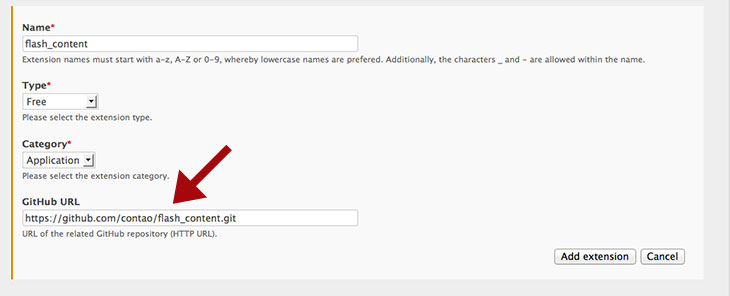
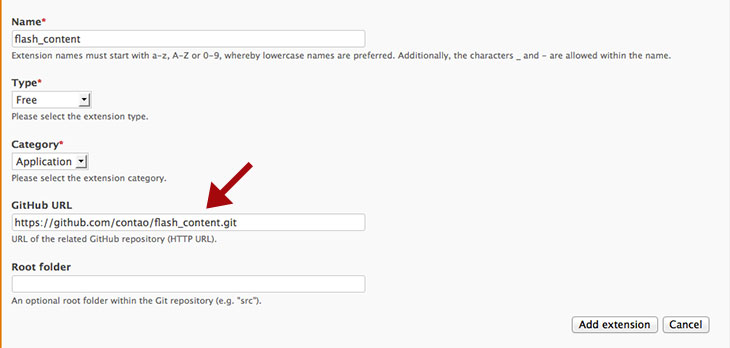
Github import update

Changed region(s): [[0.0, 0.0, 0.9342, 0.973], [0.7534, 0.8209, 0.9644, 0.973]]

diff --git a/manual/en/08-Extension-Repository.md b/manual/en/08-Extension-Repository.md
@@ -111,6 +111,10 @@ release and pushed the tag to the central GitHub repository.
 
 Enter the HTTPS URL of the GitHub repository in the settings.
 
+You can also specify the root folder name of your repository. In this case, the
+files and folders at the same level of this root folder will be ignored during
+the import.
+
 ![](https://raw.github.com/contao/docs/3.0/manual/en/images/github-import.jpg)
 
 If you select a tag, its files will be downloaded automatically and are then
